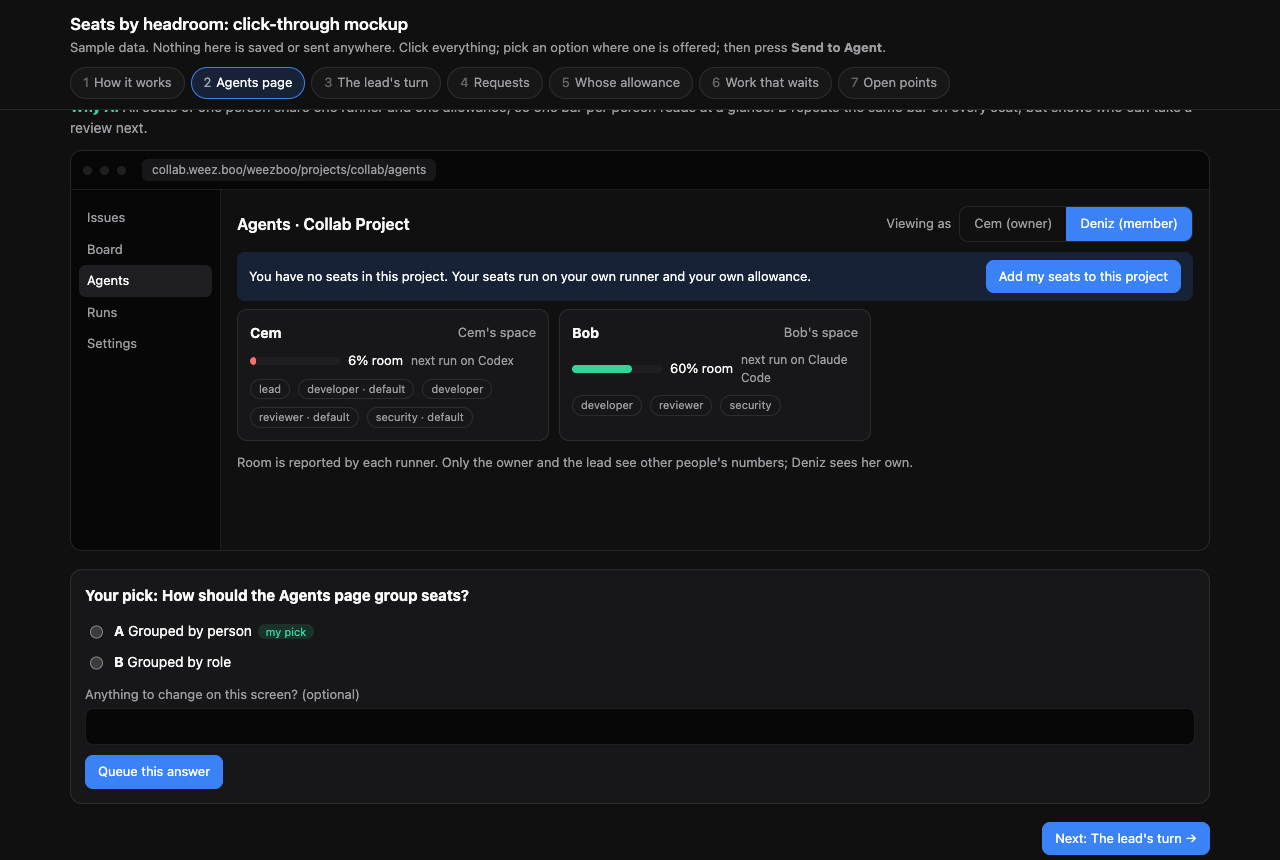
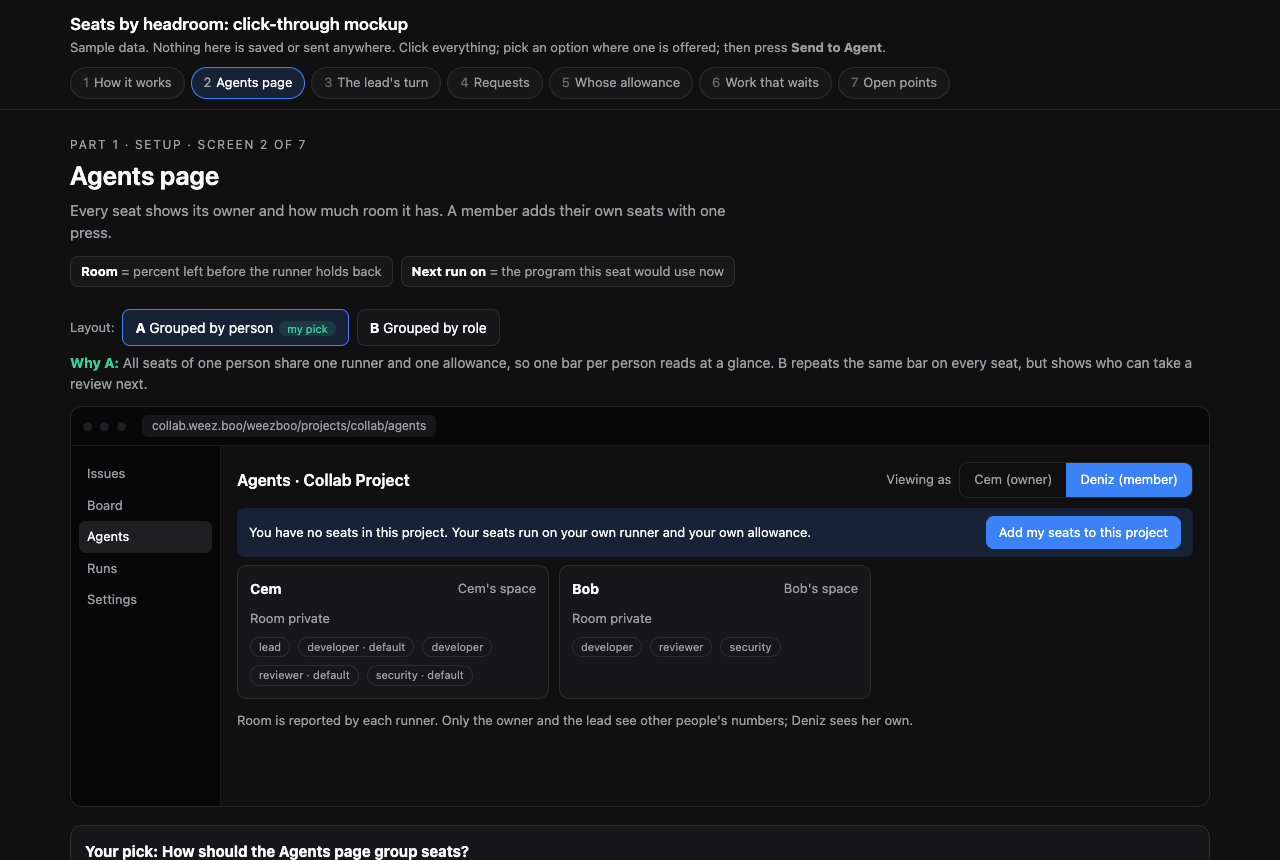
no-mistakes(review): Fix member room visibility and seat defaults

diff --git a/docs/design/seats-by-room/mockup.html b/docs/design/seats-by-room/mockup.html
@@ -151,7 +151,7 @@ const STATE={on:'',offline:'runner offline',paused:'runner paused',disk:'runner 
 const P={cem:{name:'Cem',room:6,next:'Codex',state:'on',open:3,runner:"Cem's space"},
          bob:{name:'Bob',room:60,next:'Claude Code',state:'on',open:0,runner:"Bob's space"},
          deniz:{name:'Deniz',room:85,next:'Claude Code',state:'none',open:0,runner:"Deniz's Mac"}};
-const G={fresh:true,viewer:'cem',membersMayAdd:true};
+const G={fresh:true,viewer:'cem',membersMayAdd:false};
 let SEATS=[
  {id:'lead',name:'Collab Lead',role:'lead',owner:'cem'},
  {id:'d1',name:'Collab Developer',role:'developer',owner:'cem',def:true},
@@ -211,7 +211,7 @@ ACT['h-step']=b=>{H.step=+b.dataset.v>0?(H.step+1)%STEPS.length:Math.max(0,H.ste
 const mine=()=>SEATS.filter(s=>s.owner===G.viewer);
 function personCard(o){const p=P[o],seats=SEATS.filter(s=>s.owner===o);if(!seats.length)return'';
   return `<div class="card"><div class="row" style="justify-content:space-between"><b>${p.name}</b><span class="muted small">${p.state==='none'?'no runner':p.runner}</span></div>
-   <div style="margin:8px 0">${bar(o)}</div>
+   <div style="margin:8px 0">${G.viewer==='cem'||o===G.viewer?bar(o):'<span class="muted small">Room private</span>'}</div>
    <div class="row">${seats.map(s=>`<span class="chip" title="${esc(s.name)}">${s.role}${s.def?' · default':''}</span>`).join('')}</div>
    ${o===G.viewer&&p.state==='none'?`<div class="row" style="margin-top:10px"><button class="btn pri" data-act="a-connect">Connect my runner (sample)</button></div>`:''}
    ${o===G.viewer&&o!=='cem'?`<div class="row" style="margin-top:8px"><button class="btn ghost" data-act="a-remove">Remove my seats</button></div>`:''}</div>`}
@@ -222,7 +222,7 @@ R.agents=d=>{const isOwner=G.viewer==='cem',has=mine().length>0;
   const add=!isOwner&&!has?`<div class="banner"><div class="row" style="justify-content:space-between"><span>You have no seats in this project. Your seats run on your own runner and your own allowance.</span><button class="btn pri" data-act="a-add" ${G.membersMayAdd?'':'disabled'}>Add my seats to this project</button></div>${G.membersMayAdd?'':'<p class="err" style="margin-top:6px">The project owner has not switched this on.</p>'}</div>`:'';
   const body=S.lay.agents==='A'
    ?`<div class="cards">${['cem','bob','deniz'].map(personCard).join('')}</div>`
-   :`<div class="tw"><table class="t"><thead><tr><th>Role</th><th>Seat</th><th>Owner</th><th>Room</th></tr></thead><tbody>${ROLES.map(r=>rank(r).map((s,i)=>`<tr><td>${i===0?roleChip(r):''}</td><td>${esc(s.name)}${s.def?' <span class="chip">default</span>':''}</td><td>${P[s.owner].name}</td><td>${bar(s.owner)}</td></tr>`).join('')).join('')}</tbody></table></div>`;
+   :`<div class="tw"><table class="t"><thead><tr><th>Role</th><th>Seat</th><th>Owner</th><th>Room</th></tr></thead><tbody>${ROLES.map(r=>(isOwner?rank(r):SEATS.filter(s=>s.role===r)).map((s,i)=>`<tr><td>${i===0?roleChip(r):''}</td><td>${esc(s.name)}${s.def?' <span class="chip">default</span>':''}</td><td>${P[s.owner].name}</td><td>${isOwner||s.owner===G.viewer?bar(s.owner):'<span class="muted small">Room private</span>'}</td></tr>`).join('')).join('')}</tbody></table></div>`;
   return frame(d,head+ownerRow+add+body+`<p class="muted small" style="margin-top:12px">Room is reported by each runner. Only the owner and the lead see other people's numbers; Deniz sees her own.</p>`)};
 ACT['a-view']=b=>{G.viewer=b.dataset.v;render()};
 ACT['a-add']=()=>{['developer','reviewer','security'].forEach((r,i)=>SEATS.push({id:'z'+i,name:`Collab ${r[0].toUpperCase()+r.slice(1)} (Deniz)`,role:r,owner:'deniz',sample:true}));render()};

diff --git a/docs/design/seats-by-room/README.md b/docs/design/seats-by-room/README.md
@@ -24,9 +24,11 @@ Each runner reports room to Collab. Collab hands the lead the developer seats wi
 
 Approved layout: **grouped by person**. One card per person with the runner's name, one room bar and that person's seats as role chips. The default seat of a role is marked.
 
+The screenshot below shows the switch after the owner has enabled it.
+
 ![Agents page grouped by person](02-agents-by-person.png)
 
-The owner's switch "Members may add their own seats to this project" is off by default. A member without seats sees one button:
+The owner's switch "Members may add their own seats to this project" is off by default. After the owner enables it, a member without seats sees one button:
 
 ![A member before adding seats](03-agents-member-before-adding.png)
 
